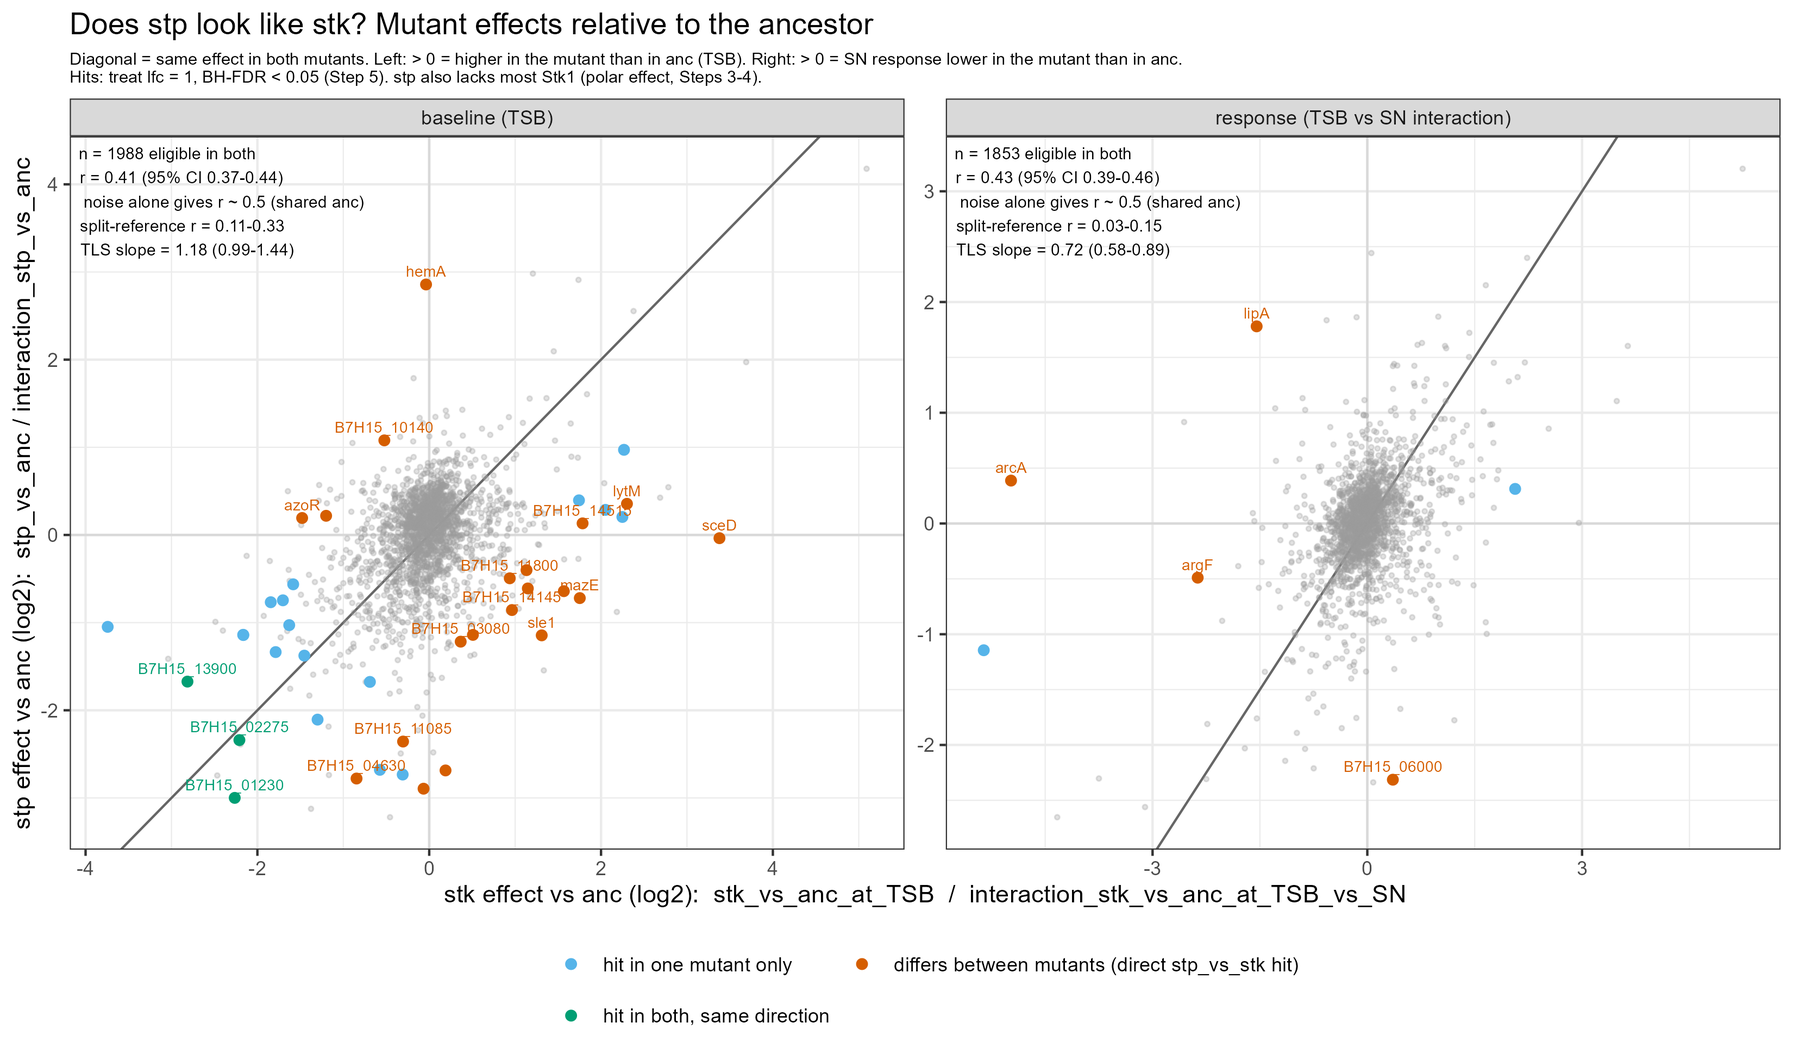
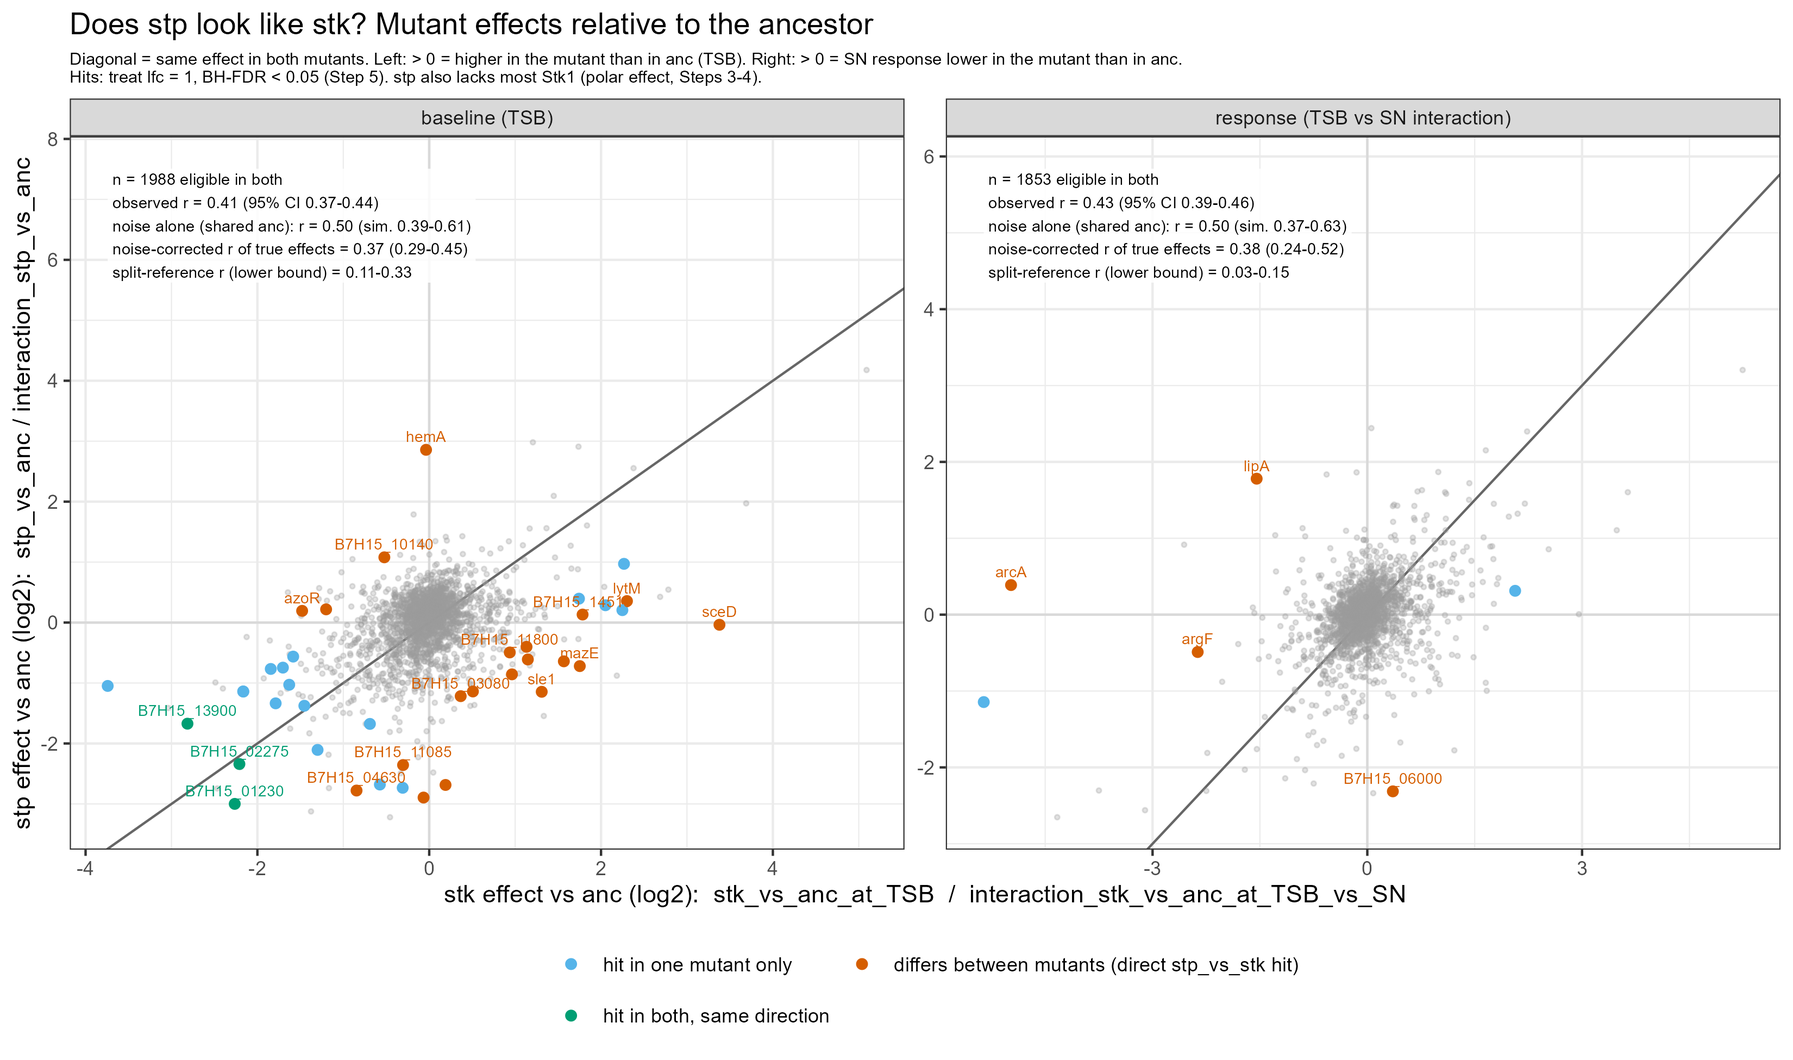
fix: noise-corrected stp/stk similarity (step 7), other-mutant evidence for candidates (step 6), arcA and 4b wording

diff --git a/mval_medi/project_outlines/PROJECT_WORKFLOW_mval.md b/mval_medi/project_outlines/PROJECT_WORKFLOW_mval.md
@@ -125,9 +125,9 @@ The bundle contains processed course results, not instrument-level spectra. Spec
 
 **Output / completion check:** Gene-context panel and a paragraph separating measured protein changes, the proposed explanation and unresolved alternatives. If Stk1 reduction is unsupported, revise the interpretation and continue the response comparisons without assuming combined disruption.
 
-## Step 4b — Transposon products (optional, depends on Jonas)
+## Step 4b — Transposon products (positive control; done 13 Nov with Jonas's transposon search)
 
-- [x] Checked 12 Nov: the search FASTA (`JE2_proteins.fasta`, 4,155 entries) contains only the genome's own IS-element transposases, **no ErmB and no GFP**. The transposon proteins were never searched for, so they cannot be pulled from any file we have. "Not found" means "never looked for" (`reference/README.md`).
+- [x] Checked 12 Nov: the search FASTA of the **course tables** (`JE2_proteins.fasta`, 4,155 entries) contains only the genome's own IS-element transposases, **no ErmB and no GFP**. The transposon proteins were never searched for, so they cannot be pulled from any file we have. "Not found" means "never looked for" (`reference/README.md`).
 - [x] If Jonas sends peptide/protein values from a search including the transposon sequences: plot ErmB (and GFP if present) across the 27 samples. Prediction: detected in `stk` and `stp`, absent in `anc`, a positive control for the insertion.
   *Done 13 Nov:* Jonas's FragPipe 24 search incl. the pBursa/pFA545 proteins is in `data/raw/FP24_transposonDB/` (local, not in the checksummed bundle). `scripts/04b_transposon_products_mval.R`: **ErmB 0 spectra in all 9 `anc` samples, 11–30 spectra (7–10 peptides) in all 18 `stk`/`stp` samples. Prediction met.** GFP was searched but not detected (ProteinProphet probability 0). Results and figure guide: `mval_medi/results/step04b_transposon/`.
 - [x] ~~If nothing arrives, state this as a limitation on the poster~~: not needed, the values arrived.
@@ -167,7 +167,7 @@ For example, the stp-versus-parent interaction is `(stp_TSB - stp_SN) - (anc_TSB
 - [x] Retain effect estimates, standard errors, FDR, model and observed/imputed status for each selected candidate.
 - [x] Plot per-sample values for representative candidates before interpreting them. Use consistent axes and explain the response difference in words.
 - [x] Keep a separate exploratory summary of one-sided detection patterns; do not rank large imputed fold changes as precise quantitative effects.
-  *Done 13 Nov:* `scripts/06_altered_responses_mval.R`, results + figure guide in `mval_medi/results/step06_responses/`. Eligible: 1,882 (`stk`) / 1,931 (`stp`). Formal interaction hits: **5 in `stk`** (kdpD, argF, arcA, rbsD, B7H15_14515) and **1 in `stp`** (ilvA); supplied screen 96 / 90. Mutant and `anc` responses correlate (r = 0.85 / 0.86): most of the PASN response is shared. Raw plots: argF, arcA and B7H15_14515 are mostly a TSB baseline difference in `stk`; ilvA also drops in `stk_SN`, but only 1/3 detected there (untestable). Candidate plots use one panel per protein with its own y-scale (abundance levels differ); x layout is the same.
+  *Done 13 Nov:* `scripts/06_altered_responses_mval.R`, results + figure guide in `mval_medi/results/step06_responses/`. Eligible: 1,882 (`stk`) / 1,931 (`stp`). Formal interaction hits: **5 in `stk`** (kdpD, argF, arcA, rbsD, B7H15_14515) and **1 in `stp`** (ilvA); supplied screen 96 / 90. Mutant and `anc` responses correlate (r = 0.85 / 0.86): most of the PASN response is shared. Raw plots: argF and B7H15_14515 are mainly a TSB baseline difference in `stk` that disappears in SN; arcA and kdpD differ from `anc` in both media with opposite sign; only rbsD is mainly an SN-response difference. ilvA also drops in `stk_SN` (1/3 detected, so not testable in our model); the supplied `lm_impute` estimate for `stk` is 3.01 (FDR 0.001), the same direction as in `stp`, so this is probably a shared mutant pattern resting on one `stk` replicate. Candidate plots use one panel per protein with its own y-scale (abundance levels differ); x layout is the same.
 
 **Why:** This establishes whether a mutation changes the exposure response beyond any pre-existing TSB difference.
 
@@ -183,7 +183,7 @@ For example, the stp-versus-parent interaction is `(stp_TSB - stp_SN) - (anc_TSB
 - [x] Inspect the direct `stp_vs_stk` interaction for candidates and report its uncertainty. A hit in one mutant but not the other is not by itself evidence of a difference between mutants.
 - [x] Use a heatmap and individual-value plots to show representative shared and distinct patterns. State any centering/scaling used only for display.
 - [x] Explain that correlations share the parental reference, and that a nonsignificant direct contrast does not establish equivalence.
-  *Done 13 Nov:* `scripts/07_shared_distinct_mval.R`, results + figure guide in `mval_medi/results/step07_shared_distinct/`. **Beyond Stk1 itself, `stp` resembles `stk` only weakly.** Baseline r = 0.41 (95% CI 0.37–0.44), response r = 0.43 (0.39–0.46). Both are below the ≈ 0.5 that the shared `anc` noise alone gives. Split-reference r (independent `anc` replicates): 0.11–0.33 (baseline), 0.03–0.15 (response). Only 3 proteins are hits in both mutants (same direction, all lower than `anc` in TSB). 20 (TSB) + 4 (response) proteins differ directly between `stp` and `stk`. Conclusion limited to the ~1,850–1,990 proteins eligible in both. With n = 3, weak similarity is not proof of no shared component.
+  *Done 13 Nov:* `scripts/07_shared_distinct_mval.R`, results + figure guide in `mval_medi/results/step07_shared_distinct/`. **`stp` shares a moderate part of the `stk` effect pattern.** The observed r (0.41 baseline, 0.43 response) cannot be judged alone, because the shared `anc` noise alone gives r = 0.50 with a wide range (simulated 0.37–0.63). Noise-corrected r of the true effects: **0.37 (95% CI 0.29–0.45) baseline, 0.38 (0.24–0.52) response**: clearly above 0, far below 1. Split-reference r (independent `anc` replicates, a lower bound): 0.11–0.33 / 0.03–0.15. *(Corrected 13 Nov: a first version compared the observed r with a fixed 0.5 and wrongly called the similarity "weak".)* Only 3 proteins are hits in both mutants (same direction, all lower than `anc` in TSB). 20 (TSB) + 4 (response) proteins differ directly between `stp` and `stk`. Few shared hits partly reflects the strict test (treat lfc = 1, n = 3). Conclusion limited to the 1,853–1,988 proteins eligible in both.
 
 **Why:** Similar response components could be consistent with reduced kinase function, while direct comparisons reveal supported differences.
 
@@ -289,11 +289,11 @@ If time is short, finish Steps 1-7 and the relevant interpretation/reporting in 
 
 **12 November 2026 (later):** Steps 3–4 done (`scripts/03_mutant_validation_mval.R`, `scripts/04_polar_effect_mval.R`; notebook `2026-11-12_steps3-4_mutant_validation_mval.md`). Stk1 is lost in `stk` (1/9 samples, 1 peptide) and nearly lost in `stp` (median 0–1 peptides vs 28–32 in anc). Stp1 in `stp` rests on 1–2 peptides, which explains the erratic wild-type-like values. Neighbours are unchanged (0 formal hits, |diff| ≤ 0.74). This is consistent with a polar insertion (stk1 is the last gene of the AureoWiki transcription unit) but does not prove it. The `HIQDSVPNVTtDVR` peptide is sporadic in all strains and gives no evidence for a truncated product.
 
-**13 November 2026:** Steps 4b, 5 (rest), 6 and 7 done (branch `steps6-7-responses-mval`; notebook `2026-11-13_steps4b-7_responses_mval.md`). ErmB positive control met (0/9 `anc`, 18/18 mutants). H2: 5 `stk` and 1 `stp` interaction hits; most of the PASN response is shared with `anc`. H3: `stp` resembles `stk` only weakly beyond Stk1; 24 direct `stp_vs_stk` differences.
+**13 November 2026:** Steps 4b, 5 (rest), 6 and 7 done (branch `steps6-7-responses-mval`; notebook `2026-11-13_steps4b-7_responses_mval.md`). ErmB positive control met (0/9 `anc`, 18/18 mutants). H2: 5 `stk` and 1 `stp` interaction hits; most of the PASN response is shared with `anc`. H3: `stp` shares a moderate part of the `stk` pattern (noise-corrected r ≈ 0.37–0.38); 24 direct `stp_vs_stk` differences.
 
 **Next actions, in order (for Friday 13 Nov):**
 1. ~~Step 3~~ done; check NE217/NE1919 on ntml.unmc.edu by hand.
 2. ~~Steps 6–7~~ done 13 Nov.
 3. Step 10: enrichment for the `stk` contrasts ("Stk1 broadly involved").
-4. Ask Jonas: meaning of "stk1 broadly involved", whether transposon-search values will come, poster format/deadline.
+4. Ask Jonas: meaning of "stk1 broadly involved"; whether `FP24_transposonDB` is the final transposon search and may be cited on the poster; poster format/deadline.
 5. Step 12: poster figures + abstract.

diff --git a/mval_medi/results/step07_shared_distinct/figure_guide_mval.md b/mval_medi/results/step07_shared_distinct/figure_guide_mval.md
@@ -10,12 +10,20 @@ No new test is run here. All hits are the Step 5 formal hits (treat lfc = 1, BH-
 ## Two traps when reading a stp-vs-stk comparison
 
 1. **Shared reference.** `stk_vs_anc` and `stp_vs_anc` subtract the *same* `anc`
-   mean. Its noise moves both estimates the same way, so pure noise with equal
-   variances already gives **r ≈ 0.5**, not 0. A correlation must be read against
-   that. As a sensitivity check, the *split-reference r* compares `stk` with one `anc`
-   replicate and `stp` with the other two. Their noise is independent (null r = 0),
-   but the estimates are noisier, so this r is pulled down. The true similarity lies
-   roughly between the split-reference r and the full r.
+   mean. Its noise moves both estimates the same way, so pure noise already gives a
+   positive r. We compute this **noise-only r from the data**: each group mean of n
+   observed values has noise variance s²/n, with s² the protein's pooled within-group
+   variance (the variance the `~ 0 + group` model uses). A simulation with the same
+   s² and n reproduces it (difference ≤ 0.004). It is 0.50 in both layers, but the
+   simulated 95% range is wide (0.39–0.61 baseline, 0.37–0.63 response), because a few
+   high-variance proteins dominate Pearson r. **So the observed r alone cannot be
+   compared with "noise".** We use instead the **noise-corrected r of the true
+   effects**: observed covariance minus the mean noise covariance, divided by the
+   noise-free variances (method of moments; bootstrap 95% CI over proteins). It assumes
+   equal variance across groups within a protein, as limma does.
+   Sensitivity check: the *split-reference r* compares `stk` with one `anc` replicate
+   and `stp` with the other two (independent noise, null r = 0). It is much noisier, so
+   it is pulled towards 0: a lower bound, not an estimate.
 2. **"Hit in one, not the other" is not a difference.** Only the direct contrasts
    `stp_vs_stk_at_TSB` / `interaction_stp_vs_stk_at_TSB_vs_SN` test whether the two
    mutants differ. A non-significant direct contrast does not show that they are equal (n = 3).
@@ -29,20 +37,27 @@ No new test is run here. All hits are the Step 5 formal hits (treat lfc = 1, BH-
   PASN response (the two interactions, > 0 = SN response lower in the mutant than in `anc`).
 - **How to read:** diagonal = same effect in both mutants. Colours = Step 5 hit
   classes; orange = direct `stp_vs_stk` hit (the mutants differ). The box gives n,
-  Pearson r with 95% CI, the noise-only reference (≈ 0.5), the split-reference r
-  range (3 ways to pick the single `anc` replicate) and the total-least-squares slope
-  (bootstrap 95% CI over proteins).
+  observed Pearson r with its 95% CI, the noise-only r, the noise-corrected r of the
+  true effects with its bootstrap 95% CI, and the split-reference r range (3 ways to
+  pick the single `anc` replicate). The total-least-squares slope is in
+  `similarity_stats_mval.csv` only (see caveat).
 - **Result:**
-  - Baseline: r = 0.41 (0.37–0.44), split-reference r = 0.11–0.33.
-  - Response: r = 0.43 (0.39–0.46), split-reference r = 0.03–0.15.
-  - Both full r values are *below* the 0.5 that shared noise alone would give. The
-    split-reference r is small and positive for the baseline and close to 0 for the
-    response. Only 3 proteins are hits in both mutants (same direction, all baseline).
-    20 proteins differ directly between `stp` and `stk` in TSB, and 4 in the response.
-- **Caveat:** with r this low, the TLS slope mostly reflects the relative spread of
-  the two axes. Do not read it as "stp has x % of the stk effect". The split-reference
-  r depends on which `anc` replicate is used alone (wide range). The 0.5 reference
-  assumes equal variance in all groups.
+
+  | layer | observed r | noise-only r (sim. 95% range) | **noise-corrected r (95% CI)** | split-reference r |
+  |---|---|---|---|---|
+  | baseline (TSB) | 0.41 | 0.50 (0.39–0.61) | **0.37 (0.29–0.45)** | 0.11–0.33 |
+  | response (interaction) | 0.43 | 0.50 (0.37–0.63) | **0.38 (0.24–0.52)** | 0.03–0.15 |
+
+  The true `stk` and `stp` effects are **moderately correlated**: clearly above 0 and
+  far below 1. Part of the `stp` pattern is shared with `stk`, but much of it is not.
+  Only 3 proteins are formal hits in both mutants (same direction, all baseline).
+  20 proteins differ directly between `stp` and `stk` in TSB, and 4 in the response.
+  The low count of shared hits also reflects the strict test (treat lfc = 1, n = 3).
+- **Caveat:** the TLS slope (baseline 1.18, response 0.72) mostly reflects the relative
+  spread of the two axes when r is moderate. Do not read it as "stp has x % of the stk
+  effect". The correction assumes noise independent of the true effects and equal
+  variance across groups within a protein. It is dominated by high-variance proteins,
+  hence the wide CI.
 
 ### `fig_heatmap_mval.png`: Fig 3b, all 46 genotype-hit proteins
 - **Compares:** observed group means of the 6 TSB/SN groups for every protein that is
@@ -69,6 +84,6 @@ No new test is run here. All hits are the Step 5 formal hits (treat lfc = 1, BH-
 |---|---|
 | `data/derived/effect_pairs_step07_mval.tsv.gz` (local only, git-ignored) | per protein × layer (baseline / response): `stk`, `stp` and direct `stp_vs_stk` estimate, SE, treat FDR, eligibility, hit class |
 | `class_counts_mval.csv` | counts per class: hit in both same/opposite direction, one mutant only, no hit; eligible in one mutant only; direct hits |
-| `similarity_stats_mval.csv` | r, 95% CI, TLS slope + bootstrap CI, noise-only reference r, split-reference r range |
+| `similarity_stats_mval.csv` | observed r + CI, TLS slope + bootstrap CI, noise share of the variance on each axis, noise-only r (formula and simulation with 95% range), noise-corrected r + bootstrap CI, split-reference r range |
 | `direct_contrast_candidates_mval.csv` | every direct `stp_vs_stk` hit with both mutant effects and direction in words |
 | `shared_distinct_checks_mval.txt` | PASS/FAIL checks |

diff --git a/mval_medi/notebook/2026-11-13_steps4b-7_responses_mval.md b/mval_medi/notebook/2026-11-13_steps4b-7_responses_mval.md
@@ -29,21 +29,31 @@
   - `interaction_stk_vs_anc_at_TSB_vs_SN`, kdpD (`B7H15_11550`): diff = 5.13,
     SE 0.18, FDR 9.5e-11 → SN response lower in `stk` than in `anc`
   - `interaction_stp_vs_anc_at_TSB_vs_SN`, ilvA (`B7H15_11425`): diff = 2.36,
-    SE 0.25, FDR 0.039 → SN response lower in `stp`; `stk_SN` only 1/3 detected,
-    so not testable in `stk` (could be shared)
-  - argF, arcA, `B7H15_14515`: the `stk` interaction is mostly a TSB baseline difference
-- **7 (H3):** `stp` vs `stk` effects r = 0.41 (baseline) / 0.43 (response), below the
-  ≈ 0.5 that the shared `anc` noise alone gives. Split-reference r 0.11–0.33 / 0.03–0.15.
-  3 proteins are hits in both mutants (same direction, all lower than `anc` in TSB);
-  20 + 4 direct `stp_vs_stk` hits.
+    SE 0.25, FDR 0.039 → SN response lower in `stp`. `stk_SN` only 1/3 detected, so
+    our test could not score `stk`; the supplied `lm_impute` estimate for `stk` is
+    3.01 (FDR 0.001), same direction → probably shared by both mutants (1 `stk` replicate)
+  - argF, `B7H15_14515`: the `stk` interaction is mainly a TSB baseline difference;
+    arcA, kdpD: `stk` differs from `anc` in both media with opposite sign; rbsD: mainly SN
+- **7 (H3):** observed r of `stp` vs `stk` effects = 0.41 (baseline) / 0.43 (response).
+  Shared `anc` noise alone gives r = 0.50 (simulated range 0.39–0.61 / 0.37–0.63), so
+  the observed r cannot be judged alone. **Noise-corrected r of the true effects =
+  0.37 (95% CI 0.29–0.45) / 0.38 (0.24–0.52): a moderate shared component.**
+  Split-reference r (lower bound) 0.11–0.33 / 0.03–0.15. 3 proteins are hits in both
+  mutants (same direction, all lower than `anc` in TSB); 20 + 4 direct `stp_vs_stk` hits.
 - all estimates in 6–7 are observed values (our limma refit), not `lod_imputed`.
   On/off proteins are listed separately as presence/absence only.
 
 ## Problems / surprises
-- `stp` resembles `stk` much less than the polar-effect idea predicted, even though
-  Stk1 is nearly gone in both. Possible readings (not tested): residual Stk1 in `stp`,
-  a real Stp1-specific effect, or noise. n = 3, so weak similarity is not proof
-  of no shared component.
+- **Corrected the same day:** the first Step 7 version compared the observed r with a
+  fixed 0.5 ("noise alone") and called the similarity "weak". The simulated noise-only
+  r turned out to vary widely (a few high-variance proteins dominate Pearson r), so
+  that comparison was not valid. Solved with a noise-corrected r (method of moments
+  from per-protein variances, bootstrap CI): 0.37 / 0.38, a moderate shared component.
+- `stp` is only partly like `stk`, although Stk1 is nearly gone in both. Possible
+  readings (not tested): residual Stk1 in `stp`, a real Stp1-specific effect, or other
+  differences between the strains.
+- a first draft called arcA "mostly a TSB baseline difference"; the computed split
+  shows a difference in both media with opposite sign. Fixed in workflow and guide.
 - the supplied `lod_imputed` label is per protein, not per contrast (see 5)
 - the first 4b check wrongly assumed every searched protein appears in the prot.xml.
   Proteins without any match show only as decoys. Fixed.
@@ -56,8 +66,9 @@ draft. It found the FP24 transposon folder in `data/raw/`. Gene symbols come fro
 interpretation was made. **A group member still has to check every number above.**
 
 ## Next steps
-- group review of the branch / PR; decide whether the weak `stp`–`stk` similarity
-  changes the H3 wording on the poster
+- group review of the branch / PR; agree on the H3 wording for the poster
+  ("`stp` shares a moderate part of the `stk` pattern, r ≈ 0.37–0.38 after noise
+  correction, plus 24 direct differences")
 - ask Jonas: is FP24 the final transposon search, and may we cite it on the poster?
 - Step 10 enrichment for the `stk` contrasts; Step 12 poster figures (Fig 2 = step 6
   scatter, Fig 3 = step 7 scatter + heatmap, Fig 1e = ErmB)

diff --git a/mval_medi/results/step06_responses/figure_guide_mval.md b/mval_medi/results/step06_responses/figure_guide_mval.md
@@ -43,13 +43,19 @@ Every `stp` result: that strain also lacks most of Stk1 (Step 3).
 - **How to read:** one point = one sample; `n/3` above = detected replicates;
   missing samples are not drawn.
 - **What the raw values show (checked by eye, 13 Nov):**
-  - argF (`B7H15_14670`), arcA (`B7H15_14675`), `B7H15_14515`: `stk` is already
-    clearly different from `anc` **in TSB**; much of the interaction is a baseline difference.
-  - kdpD (`B7H15_11550`): `stk_SN` lower than `anc_SN` (2/3 vs 2/3 detected); `stp_SN` 1/3.
+  - argF (`B7H15_14670`), `B7H15_14515`: `stk` differs from `anc` **in TSB only**
+    (stk − anc = −1.63 and +1.79; in SN 0.74 and −0.28). The interaction is mainly a
+    baseline difference that disappears in SN.
+  - arcA (`B7H15_14675`), kdpD (`B7H15_11550`): `stk` differs from `anc` in **both** media,
+    with opposite sign (arcA: −3.74 in TSB, +1.23 in SN; kdpD: +1.35 in TSB, −3.78 in SN).
+  - kdpD: `stk_SN` lower than `anc_SN` (2/3 vs 2/3 detected); `stp_SN` 1/3, so not testable
+    in `stp` (supplied estimate 0.60, FDR 0.60: no evidence there).
   - rbsD (`B7H15_01460`): high in `stk_SN` (2/3); `stp_SN` replicates spread from about 12.5 to 16.
-  - ilvA (`B7H15_11425`, the only `stp` hit): `stk_SN` drops too, but only 1/3
-    detected, so the `stk` interaction was not testable. This may be a shared
-    mutant pattern, not a `stp`-specific one.
+  - ilvA (`B7H15_11425`, the only `stp` hit): `stk_SN` drops too, but only 1/3 detected,
+    so our test could not score `stk`. The supplied model (which uses that one value)
+    gives `interaction_stk_vs_anc` = 3.01, FDR 0.001, the same direction as `stp` (2.36).
+    The lower SN response is therefore probably **shared by both mutants**; in `stk` it
+    rests on one replicate.
   - arcA in `stk_SNpulse`: one replicate far above the other two.
 
 ## Tables
@@ -57,7 +63,7 @@ Every `stp` result: that strain also lacks most of Stk1 (Step 3).
 | file | content |
 |---|---|
 | `response_summary_mval.csv` | per primary contrast (baseline / exposure / interaction): eligible, hits up/down, median and 95th percentile \|diff\|, median SE, number of estimates with \|diff\| > 1 (descriptive, NOT a hit rule) |
-| `interaction_candidates_mval.csv` | each formal interaction hit: diff, SE, treat FDR, model, `estimate_type` (always observed), responses in anc/stk/stp, strain difference in TSB and in SN, `where_difference` (descriptive, on estimates: mainly TSB baseline / mainly SN response / both), direction in words |
+| `interaction_candidates_mval.csv` | each formal interaction hit: diff, SE, treat FDR, model, `estimate_type` (always observed), responses in anc/stk/stp, strain difference in TSB and in SN, `where_difference` (descriptive, on estimates: mainly TSB baseline / mainly SN response / both), direction in words, `detected_TSB_SN` (replicates per group), `other_mutant` (is the same interaction a hit / testable in the other mutant; if not testable, the supplied `lm_impute` estimate as presence/absence evidence) |
 | `one_sided_responses_mval.csv` | on/off proteins of the three interactions (exploratory), with `pattern_class`: *on/off in one strain only* (a possible altered response), *shared* (both strains empty in the same medium), *absent from a strain in both media* (not a response), *mixed* |
 | `responses_checks_mval.txt` | PASS/FAIL checks |
 
